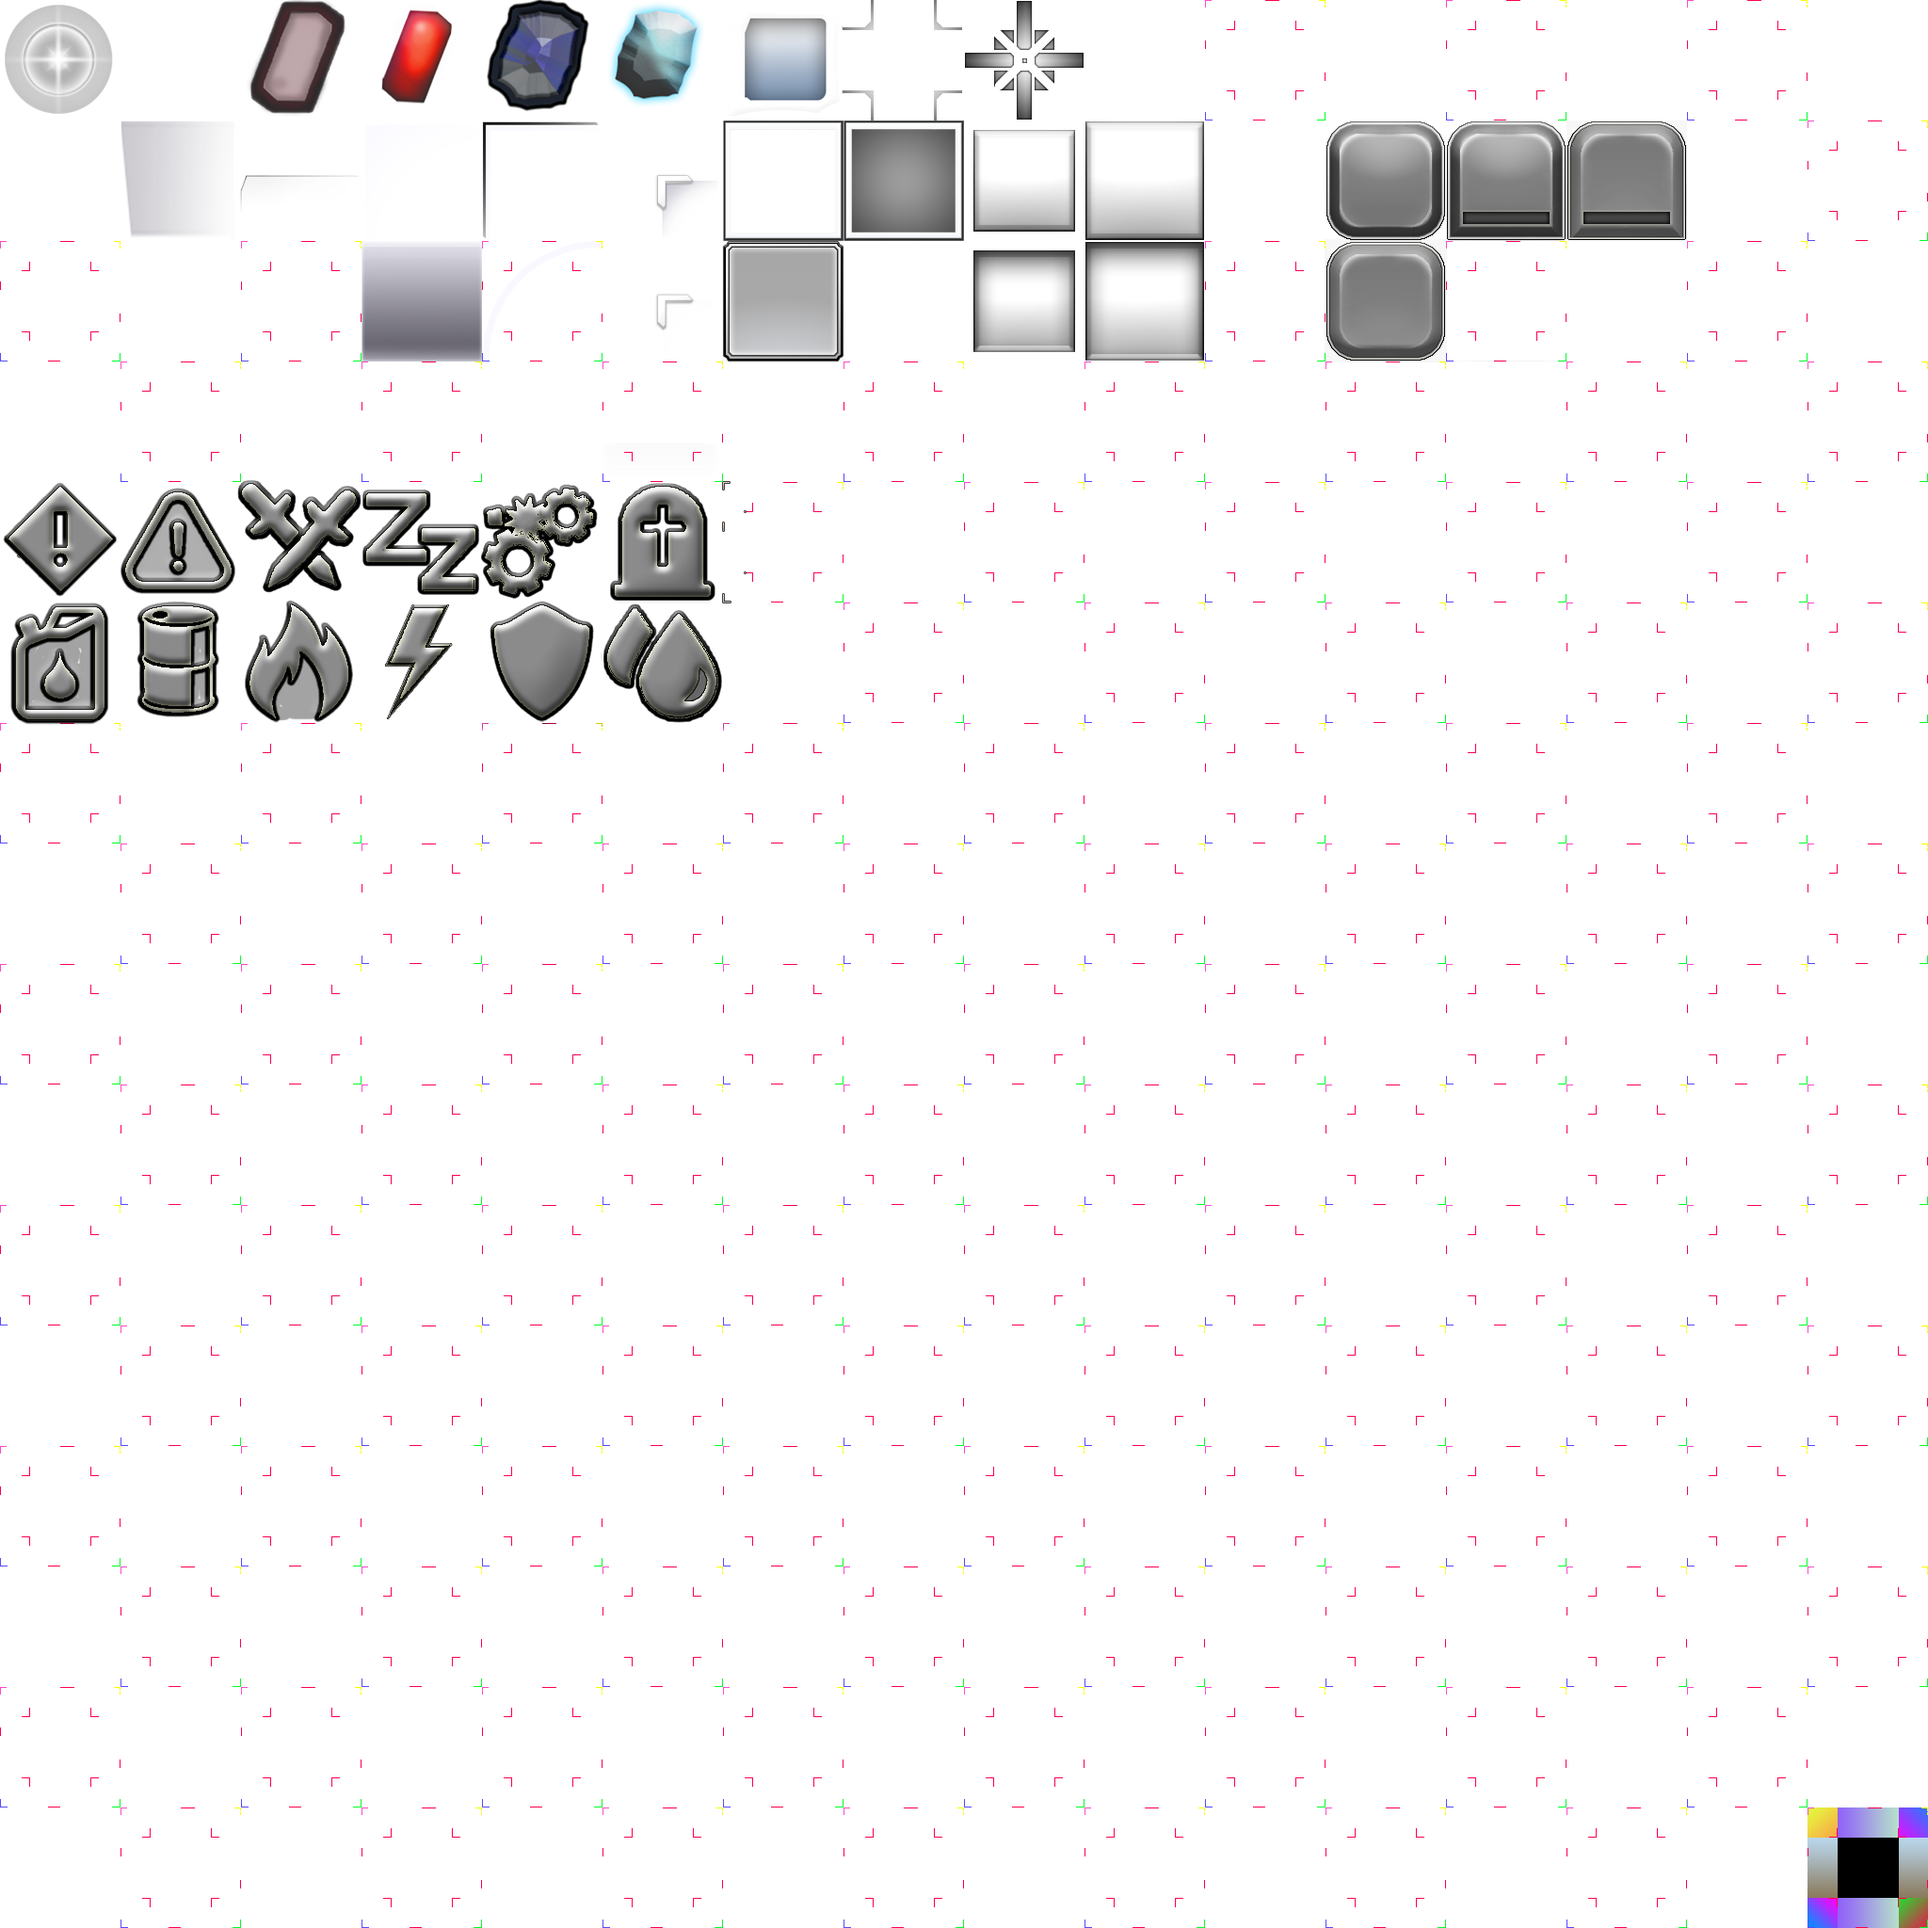
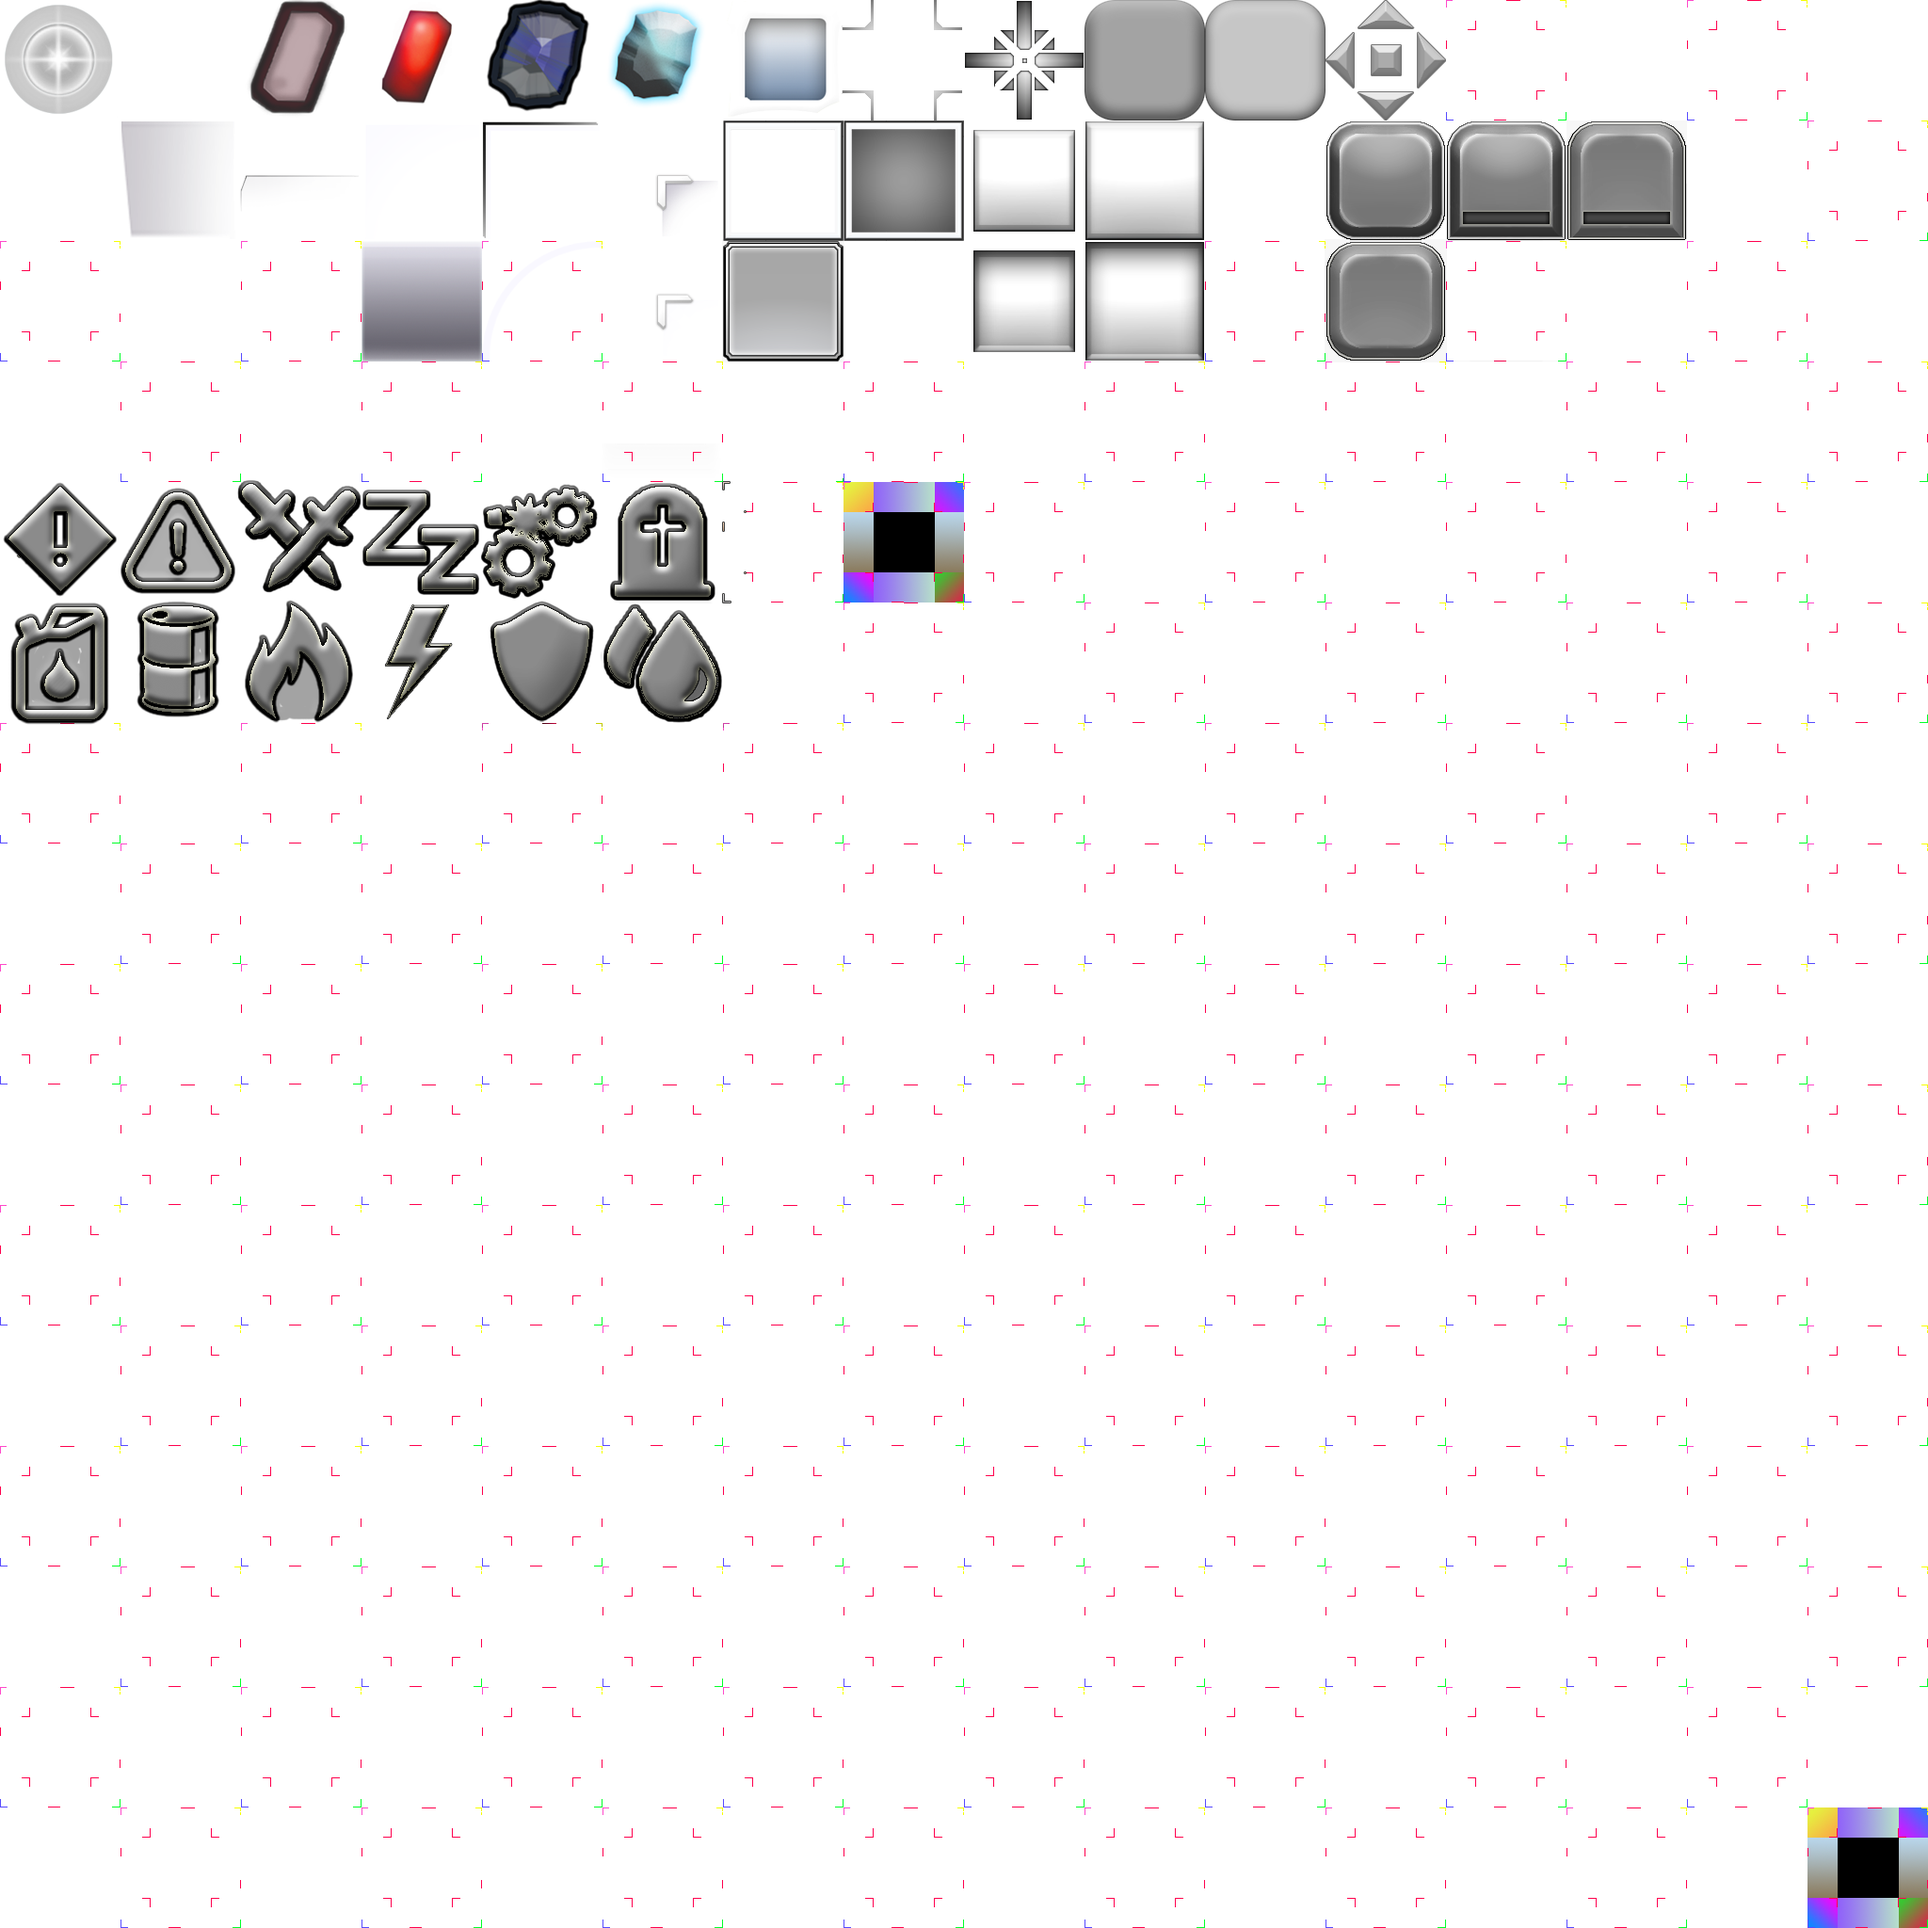
thumbstick pt1

Changed region(s): [[0.5625, 0.0, 0.75, 0.0625], [0.4375, 0.25, 0.5, 0.3125]]

diff --git a/client/js/workers/main/ui/UiTestSetup.js b/client/js/workers/main/ui/UiTestSetup.js
@@ -3,12 +3,14 @@
 define([
 
         'client/js/workers/main/ui/widgets/GuiSimpleButton',
+        'client/js/workers/main/ui/widgets/GuiThumbstick',
         'client/js/workers/main/ui/widgets/GuiTextBox',
         'client/js/workers/main/ui/widgets/GuiScreenSpaceText',
         'client/js/workers/main/ui/widgets/GuiProgressBar'
     ],
     function(
         GuiSimpleButton,
+        GuiThumbstick,
         GuiTextBox,
         GuiScreenSpaceText,
         GuiProgressBar
@@ -20,6 +22,7 @@ define([
         var testButtons = [];
         var progressBars = [];
         var textBoxes = [];
+        var thumbstick;
         var matrixText;
 
         var UiTestSetup = function() {
@@ -30,16 +33,20 @@ define([
 
             var addTextBox = function() {
                 this.addTextBox();
-            }.bind(this)
+            }.bind(this);
 
             var addProgressBar = function() {
                 this.addProgressBar();
-            }.bind(this)
+            }.bind(this);
 
             var addMatrixText = function(bool) {
                 this.addMatrixText(bool);
-            }.bind(this)
+            }.bind(this);
 
+
+            var addThumbstick = function(bool) {
+                this.addThumbstick(bool);
+            }.bind(this);
 
             var toggleTestUi = function(bool) {
                 console.log("Button: ", bool);
@@ -55,7 +62,8 @@ define([
                 toggleTestUi:toggleTestUi,
                 addProgressBar:addProgressBar,
                 addTextBox:addTextBox,
-                addMatrixText:addMatrixText
+                addMatrixText:addMatrixText,
+                addThumbstick:addThumbstick
             }
 
         };
@@ -106,6 +114,18 @@ define([
             button.initSimpleButton('button_big_blue', this.callbacks.addMatrixText, b3Ready, tempVec1 )
 
             testButtons.push(button);
+
+
+            var b4Ready = function(widget) {
+                widget.printWidgetText('STICK')
+            };
+
+            tempVec1.x -= 0.15;
+            button =  new GuiSimpleButton();
+            button.initSimpleButton('button_big_blue', this.callbacks.addThumbstick, b4Ready, tempVec1 )
+
+            testButtons.push(button);
+
 
         };
 
@@ -173,6 +193,27 @@ define([
 
         };
 
+        UiTestSetup.prototype.addThumbstick = function(bool) {
+
+            if (bool) {
+
+                var onReady = function(tmbstick) {
+                    tempVec1.set(-0.3, -0.3, 0);
+
+                    tmbstick.setOriginPosition(tempVec1)
+                };
+
+                thumbstick = new GuiThumbstick();
+                thumbstick.initThumbstick('widget_thumbstick', onReady);
+
+            } else {
+                if (thumbstick) {
+                    thumbstick.removeGuiWidget();
+                    thumbstick = null
+                }
+            }
+
+        };
 
         UiTestSetup.prototype.openTestUi = function() {
 
@@ -201,7 +242,7 @@ define([
                 matrixText.removeGuiWidget();
                 matrixText = null
             }
-            
+
         };
 
         UiTestSetup.prototype.setupDefaultUi = function() {

diff --git a/client/js/workers/main/MainWorldAPI.js b/client/js/workers/main/MainWorldAPI.js
@@ -68,18 +68,45 @@ define([
         var tpf;
         var time = 0;
 
+        var samples = 0;
+
+        var speedPoll;
+
+        var sampleInput = function() {
+            GuiAPI.sampleInputState(sharedBuffers[ENUMS.getKey('BufferType', ENUMS.BufferType.INPUT_BUFFER)][0]);
+
+            if (samples > 10) {
+                clearInterval(speedPoll);
+                samples = 0;
+                return;
+            }
+
+            if (samples === 1) {
+                speedPoll = setInterval(sampleInput, 5)
+            }
+
+            samples++;
+        };
+
         MainWorldAPI.initMainWorldFrame = function(frame, frameTpf) {
             tpf = frameTpf;
+
+            frameEndMsg[1] = frame;
+
             time += tpf;
         //    console.log("FRAME ->->-> MainWorldCom");
-            evt.initEventFrame(frame);
 
-            GuiAPI.updateGui(sharedBuffers[ENUMS.getKey('BufferType', ENUMS.BufferType.INPUT_BUFFER)][0], tpf, time);
+            evt.initEventFrame(frame);
+            postMessage(frameEndMsg);
+
+            samples++;
+            sampleInput();
+
+            GuiAPI.updateGui(tpf, time);
 
             worldSimulation.tickWorldSimulation(tpf, time);
 
-            frameEndMsg[1] = frame;
-            postMessage(frameEndMsg)
+
 
         };
 

diff --git a/client/js/workers/main/ui/systems/InputSystem.js b/client/js/workers/main/ui/systems/InputSystem.js
@@ -107,16 +107,16 @@ define([
 
                 inputBuffer = buffer;
 
-                if (inputBuffer[startIndex + ENUMS.InputState.HAS_UPDATE] === 3) {
-                    inputBuffer[startIndex + ENUMS.InputState.HAS_UPDATE] = 0;
-                }
+            //    if (inputBuffer[startIndex + ENUMS.InputState.HAS_UPDATE] === 200) {
+                    inputBuffer[startIndex + ENUMS.InputState.HAS_UPDATE] = 1;
+            //    }
 
                 pointer = null;
 
                 if (inputBuffer[startIndex + ENUMS.InputState.ACTION_0]) {
 
-                    tempVec1.x =  inputBuffer[startIndex+ ENUMS.InputState.MOUSE_X] //+ inputBuffer[startIndex+ ENUMS.InputState.DRAG_DISTANCE_X] ;
-                    tempVec1.y =  inputBuffer[startIndex+ ENUMS.InputState.MOUSE_Y] //+ inputBuffer[startIndex+ ENUMS.InputState.DRAG_DISTANCE_Y] ;
+                    tempVec1.x = inputBuffer[startIndex+ ENUMS.InputState.MOUSE_X] //+ inputBuffer[startIndex+ ENUMS.InputState.DRAG_DISTANCE_X] ;
+                    tempVec1.y = inputBuffer[startIndex+ ENUMS.InputState.MOUSE_Y] //+ inputBuffer[startIndex+ ENUMS.InputState.DRAG_DISTANCE_Y] ;
                     tempVec1.z = 0 // (Math.random()-0.5 ) * 5 //;
 
                     if (!pointers[inputIndex]) {

diff --git a/client/js/workers/main/ui/widgets/GuiThumbstick.js b/client/js/workers/main/ui/widgets/GuiThumbstick.js
@@ -1,0 +1,44 @@
+"use strict";
+
+define([
+        'client/js/workers/main/ui/elements/GuiWidget'
+    ],
+    function(
+        GuiWidget
+    ) {
+
+
+        var GuiThumbstick = function() {
+            this.origin = new THREE.Vector3();
+            this.pos = new THREE.Vector3();
+        };
+
+
+        GuiThumbstick.prototype.initThumbstick = function(widgetConfig, onReady) {
+
+            var widgetRdy = function(widget) {
+                widget.setWidgetIconKey('directional_arrows');
+                onReady(this)
+            }.bind(this);
+
+            this.guiWidget = new GuiWidget(widgetConfig);
+            this.guiWidget.initGuiWidget(null, widgetRdy);
+        };
+
+
+        GuiThumbstick.prototype.setOriginPosition = function(pos) {
+            this.origin.copy(pos);
+            this.pos.copy(pos);
+            this.guiWidget.setPosition(pos);
+        };
+
+
+
+        GuiThumbstick.prototype.removeGuiWidget = function() {
+            this.guiWidget.recoverGuiWidget();
+        };
+
+
+        return GuiThumbstick;
+
+    });

diff --git a/client/js/workers/main/ui/GuiAPI.js b/client/js/workers/main/ui/GuiAPI.js
@@ -227,22 +227,24 @@ define([
             return txtSysKey;
         };
 
-        GuiAPI.updateGui = function(INPUT_BUFFER, tpf, time) {
-
+        GuiAPI.sampleInputState = function(INPUT_BUFFER) {
             GuiDebug.updateDebugElements();
             updateBufferIndices();
             updateInput(INPUT_BUFFER);
+
+        };
+
+        GuiAPI.updateGui = function(tpf, time) {
+
 
 
             if (registeredTextElements['main_text_box']) {
                 dymmy1(registeredTextElements['main_text_box']);
             }
 
-
             for (i = 0; i < guiUpdateCallbacks.length; i++) {
                 guiUpdateCallbacks[i](tpf, time);
             }
-
         };
 
         return GuiAPI;

diff --git a/client/js/workers/main/ui/widgets/GuiScreenSpaceText.js b/client/js/workers/main/ui/widgets/GuiScreenSpaceText.js
@@ -17,6 +17,9 @@ define([
             var updateProgress = function(tpf, time) {
                 this.time += tpf;
 
+                this.text.minXY.copy(this.pos);
+                this.text.maxXY.addVectors(this.pos, this.size);
+
                 var string = '';
                 var maxSize = this.text.getMaxCharCount();
 
@@ -30,9 +33,9 @@ define([
             this.callbacks = {
                 updateProgress:updateProgress,
                 stringReady:stringReady
-            }
+            };
 
-            this.pos = new THREE.Vector3()
+            this.pos = new THREE.Vector3();
             this.size= new THREE.Vector3()
 
         };

diff --git a/client/js/application/ClientViewer.js b/client/js/application/ClientViewer.js
@@ -93,16 +93,16 @@ define([
             lastTpf = tpf;
             frame++;
             ThreeAPI.updateCamera();
-            frameMessage[1][0] = frame;
-            frameMessage[1][1] = tpf;
-            WorkerAPI.callWorker(ENUMS.Worker.MAIN_WORKER, frameMessage)
+
 
 		};
 
         var notifyFrameMessage = [];
 
         ClientViewer.prototype.tickPostrender = function(tpf) {
-
+            frameMessage[1][0] = frame;
+            frameMessage[1][1] = lastTpf;
+            WorkerAPI.callWorker(ENUMS.Worker.MAIN_WORKER, frameMessage)
         //    console.log("tick", frame)
         //    sampleCamera(ThreeAPI.getCamera());
 

diff --git a/client/js/workers/main/ui/elements/GuiSurface.js b/client/js/workers/main/ui/elements/GuiSurface.js
@@ -50,8 +50,6 @@ define([
         };
 
 
-
-
         GuiSurface.prototype.toggleActive = function() {
             this.active = !this.active;
 
@@ -125,7 +123,6 @@ define([
         GuiSurface.prototype.getSurfaceExtents = function(storeVec) {
             storeVec.subVectors(this.maxXY, this.minXY)
         };
-
 
 
         GuiSurface.prototype.positionOnCenter = function() {

diff --git a/client/js/workers/main/ui/elements/GuiWidget.js b/client/js/workers/main/ui/elements/GuiWidget.js
@@ -253,6 +253,7 @@ define([
 
         };
 
+
         GuiWidget.prototype.removeChild = function(guiWidget) {
             this.children.splice(this.children.indexOf(guiWidget), 1);
         };
